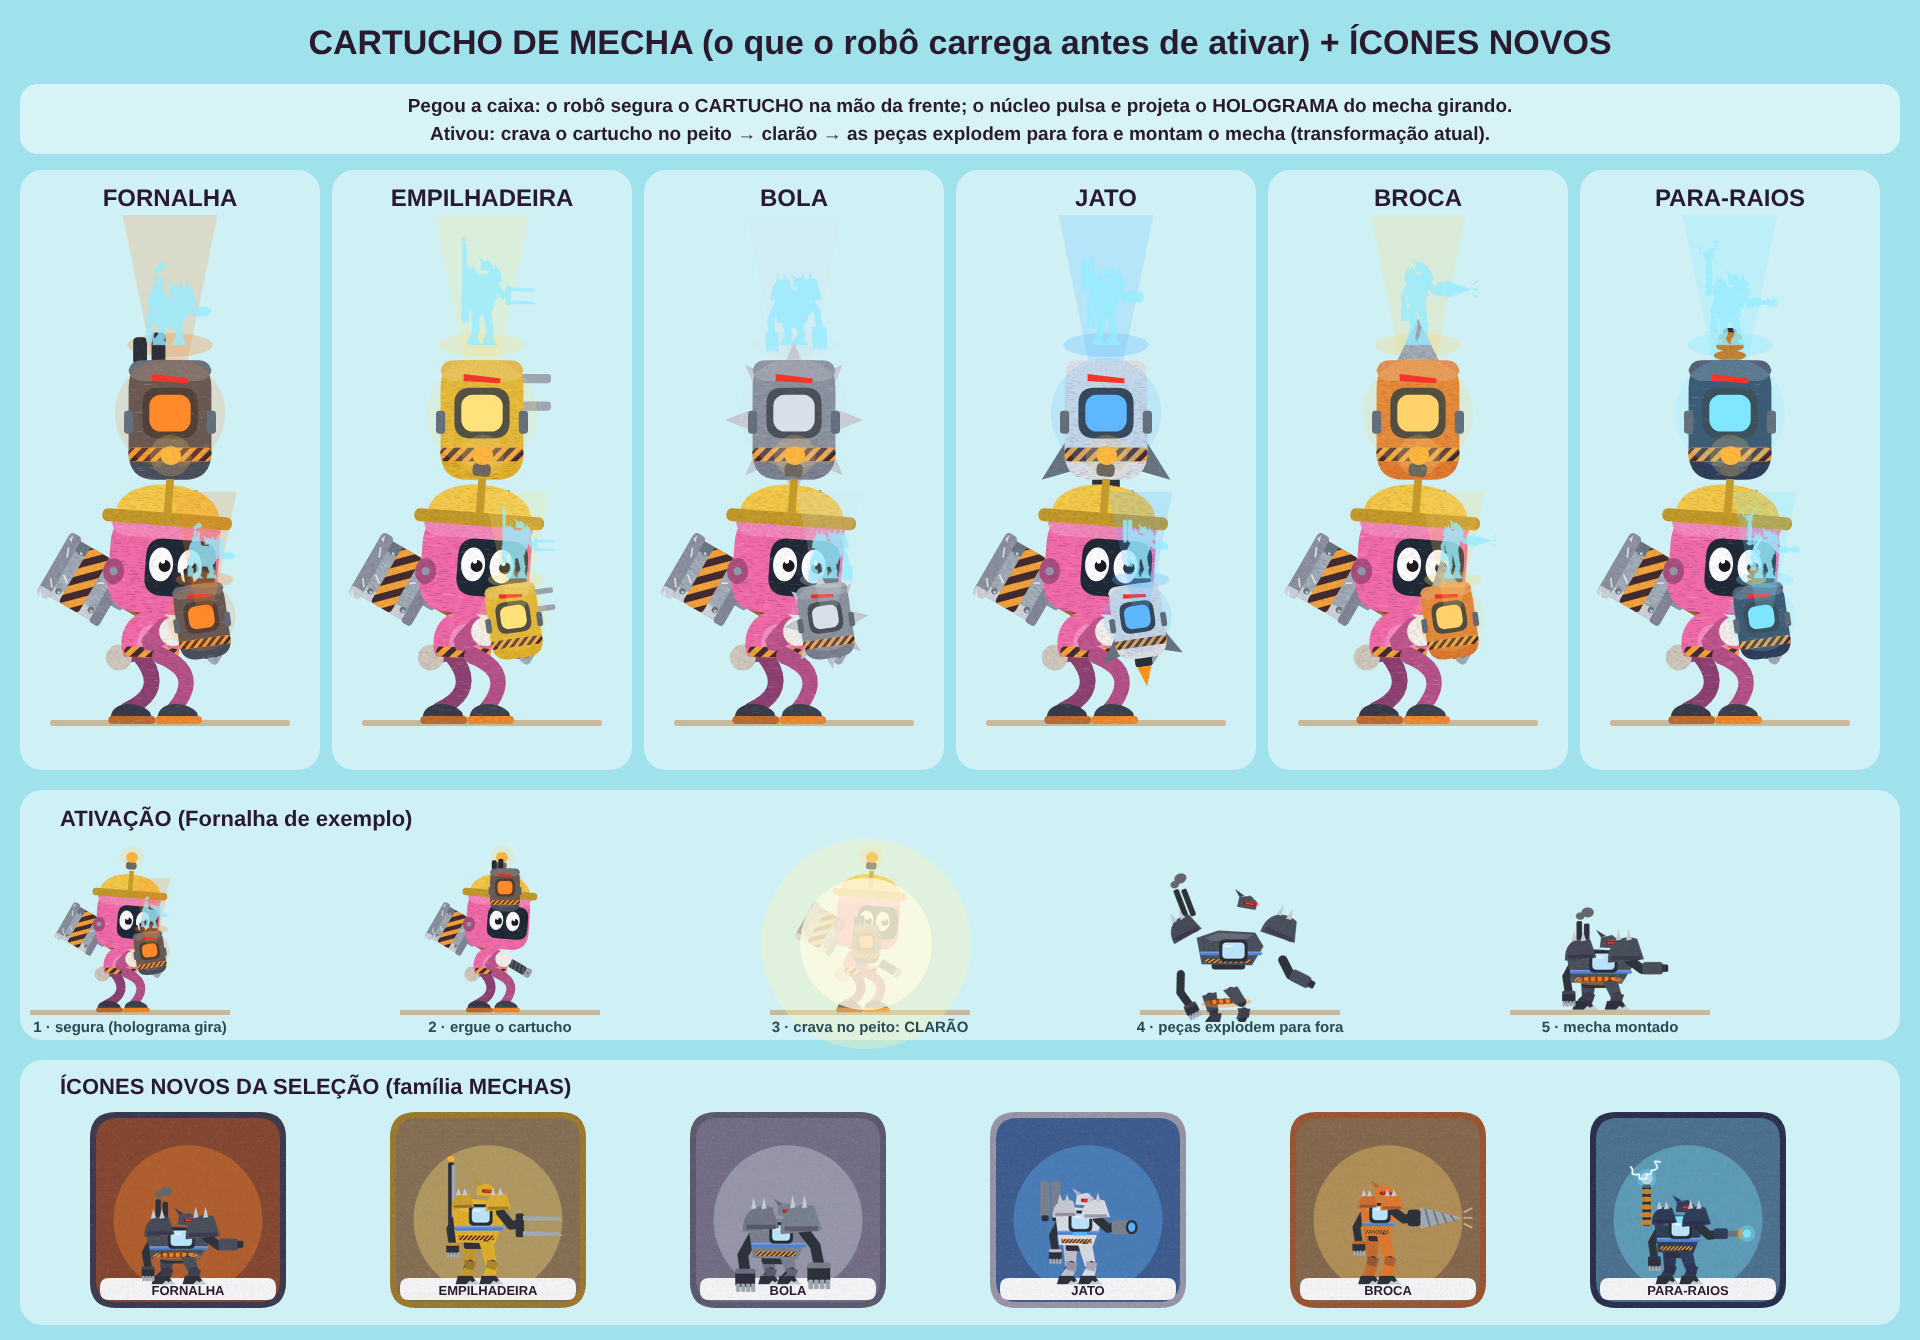
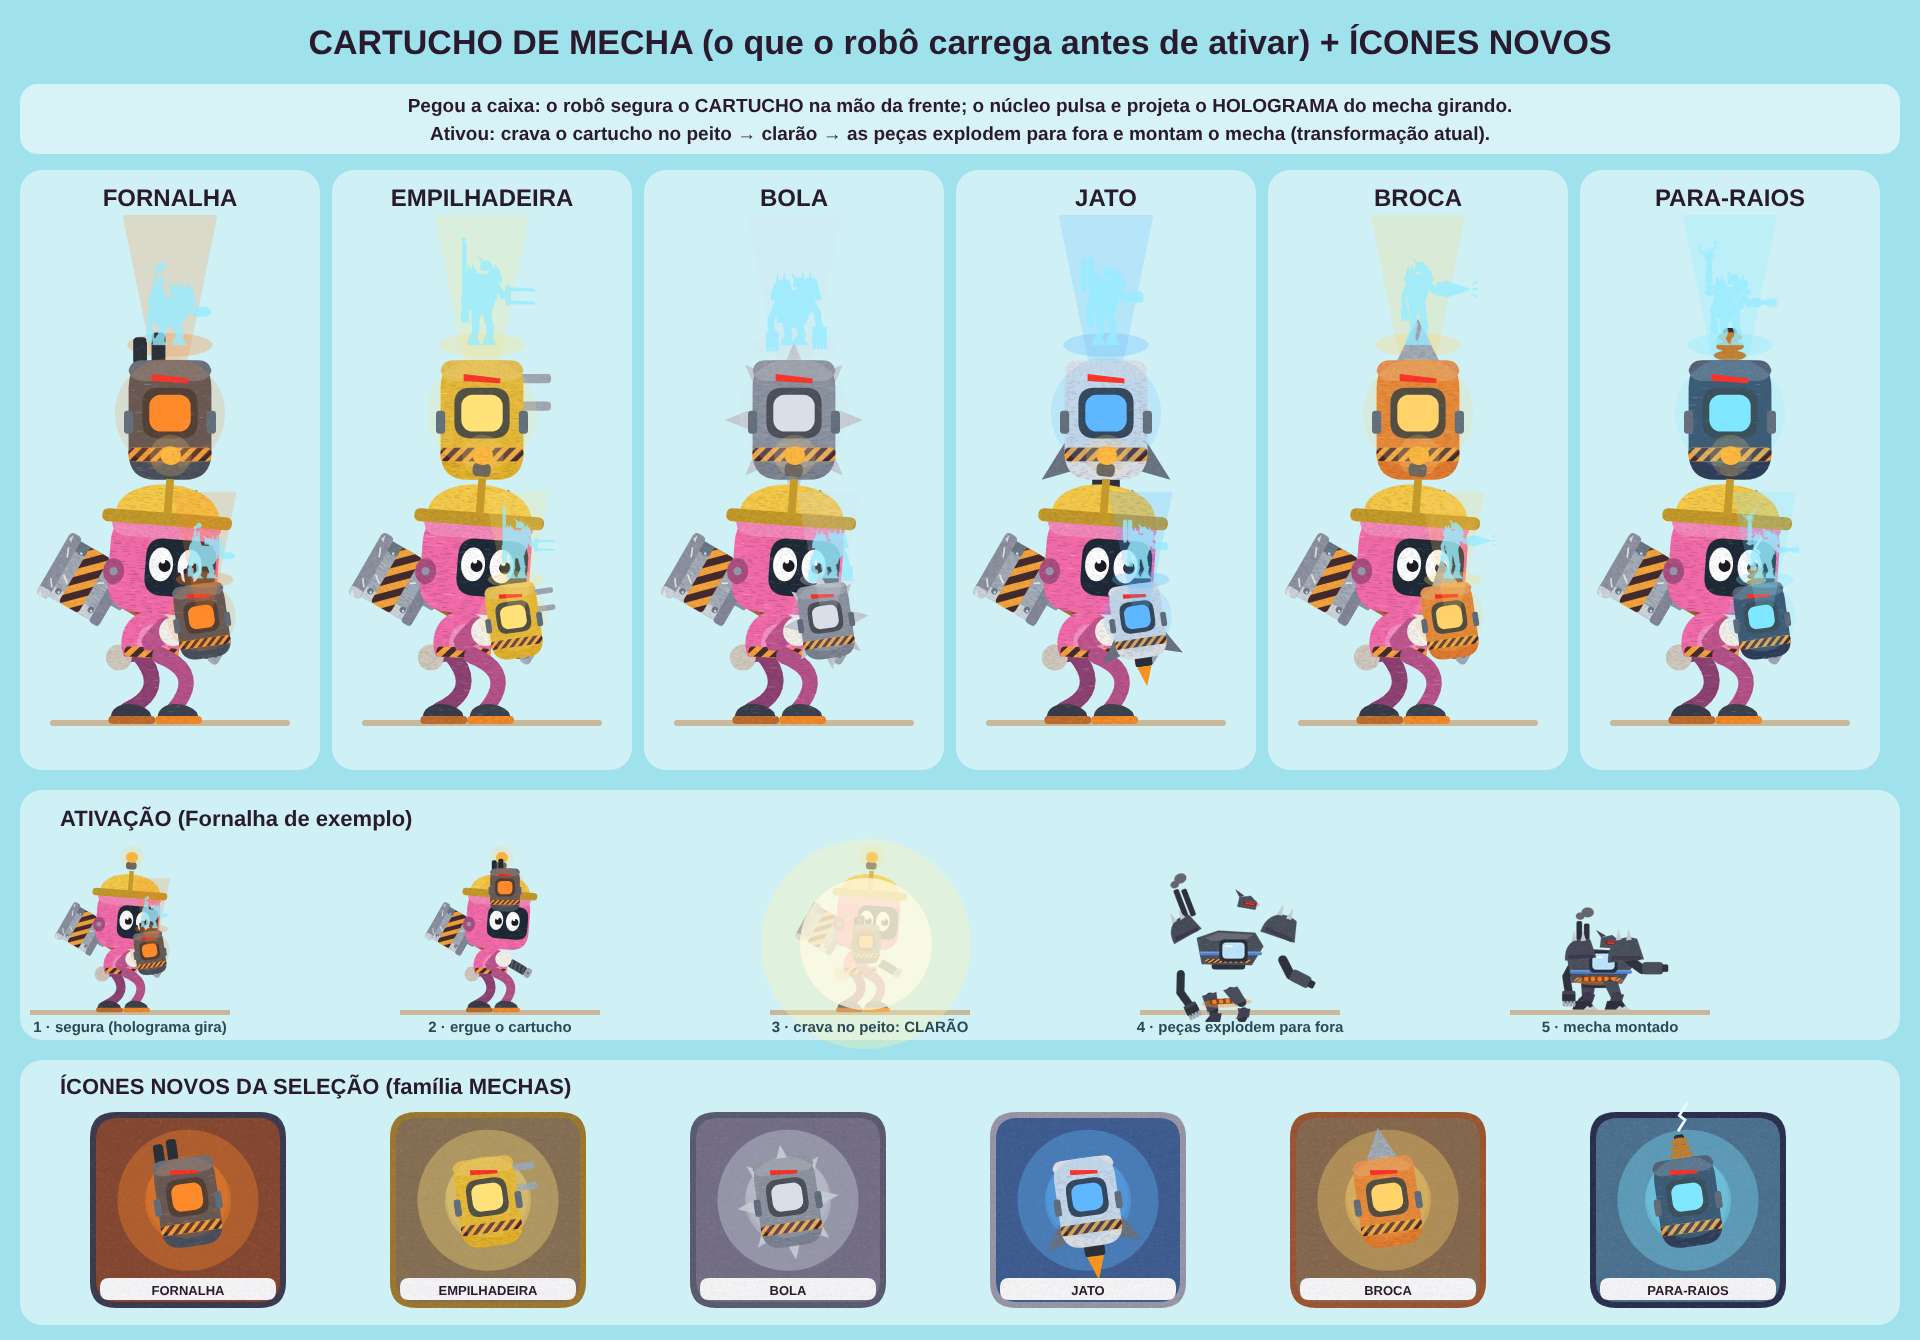
Ícones dos mechas = o próprio cartucho (pedido do usuário)
Claude-Session: https://claude.ai/code/session_017desNJLabnbh98EwrZ9vQj

diff --git a/art/src/robos/mecha_cartucho.py b/art/src/robos/mecha_cartucho.py
@@ -77,11 +77,12 @@ def defs():
 
 
 def icone(tid, x, y, tam=150):
-    """Ícone da seleção: o mecha inteiro num distintivo arredondado na cor do tema + nome."""
+    """Ícone da seleção = o próprio CARTUCHO que o robô segura (pedido 2026-11-27), num distintivo na cor do tema."""
     nome, casco, nucleo, fn, _ = TEMAS[tid]
     o = R(x, y, tam, tam, 26, shade(casco, -0.35), k=0.4) + R(x + 6, y + 6, tam - 12, tam - 12, 22, shade(nucleo, -0.55), k=0.3)
-    o += f'<circle cx="{x + tam / 2}" cy="{y + tam * 0.55}" r="{tam * 0.38}" fill="{nucleo}" opacity="0.35"/>'
-    COLAR.append(("mecha", tid, x + tam * 0.45, y + tam * 0.88, tam / 330, 0))
+    o += f'<circle cx="{x + tam / 2}" cy="{y + tam * 0.45}" r="{tam * 0.36}" fill="{nucleo}" opacity="0.35"/>'
+    o += f'<circle cx="{x + tam / 2}" cy="{y + tam * 0.45}" r="{tam * 0.22}" fill="{nucleo}" opacity="0.35"/>'
+    o += f'<g transform="translate({x + tam / 2},{y + tam * 0.46}) rotate(-8)">{cartucho(tid, tam / 115.0, 1.0)}</g>'
     o += R(x + 10, y + tam - 30, tam - 20, 22, 9, "#ffffff", k=0.1) + label(x + tam / 2, y + tam - 13, nome, 13, INK)
     return o
 
